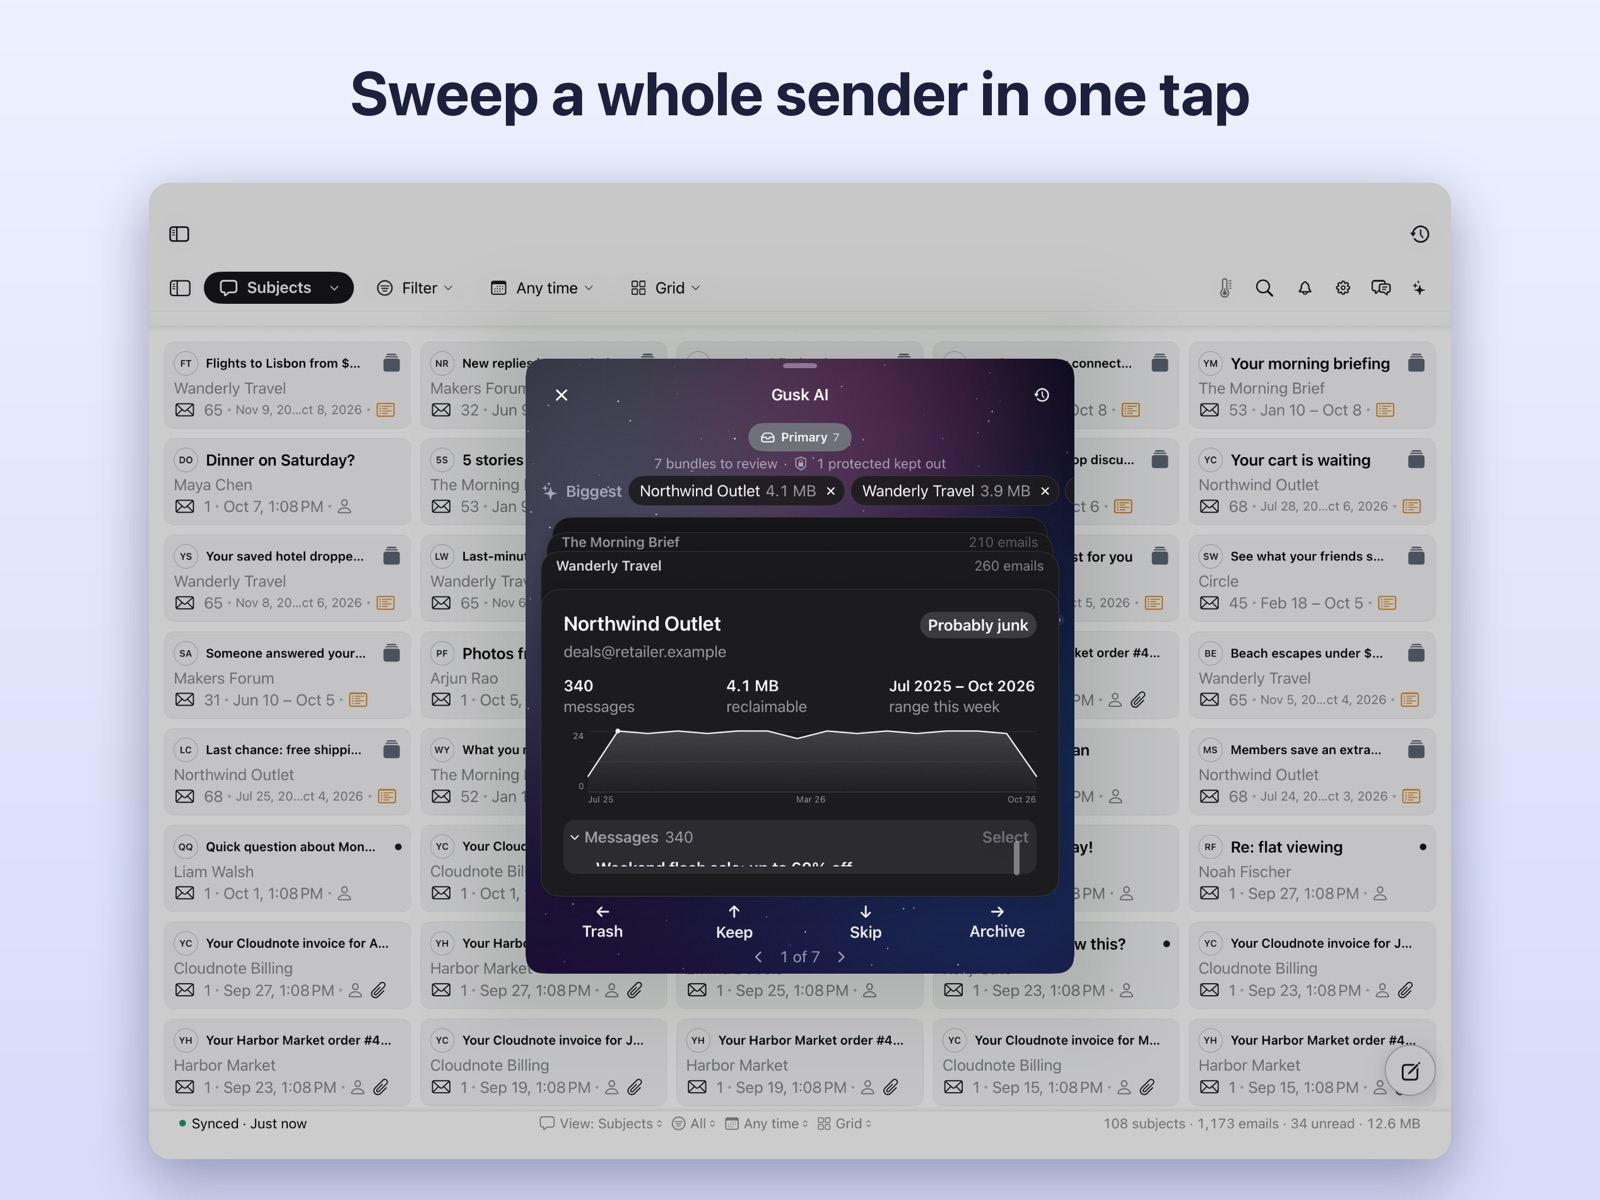
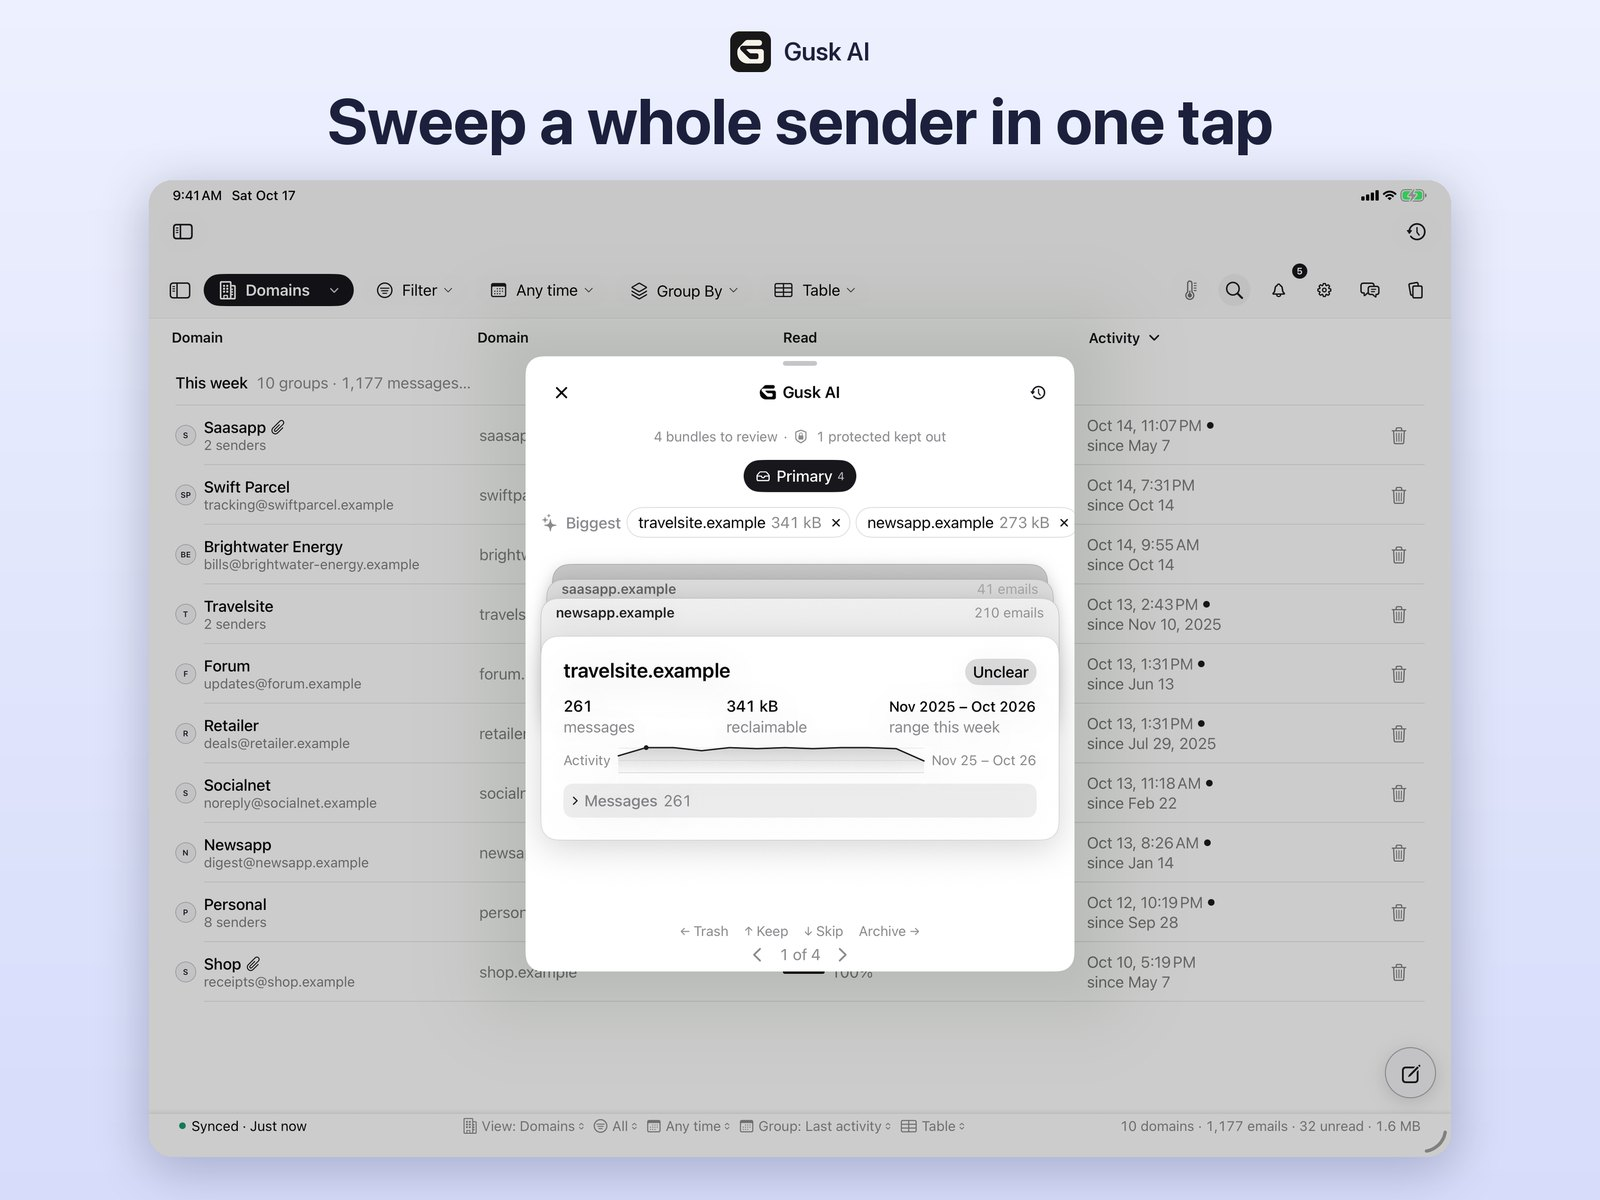
Screenshots from the new App Store sets

diff --git a/index.html b/index.html
@@ -45,7 +45,7 @@
 <p class="section-sub">A full sidebar on Mac and iPad, and the same Sweep in your pocket. Your signatures sync across all three through your own mailbox.</p>
 <figure class="device mac"><div class="shot"><img src="shots/mac.jpg" alt="Gusk AI on Mac: mailboxes, labels and smart views in the sidebar, with senders ranked by volume, size and unread" loading="lazy"></div>
 <figcaption><b>Gusk AI for Mac</b>Mailboxes, labels and smart views in the sidebar, and every sender ranked by volume, size and unread, with keyboard shortcuts throughout.</figcaption></figure>
-<figure class="device ipad"><div class="shot"><img src="shots/ipad.jpg" alt="Gusk AI on iPad: a Sweep card over the subjects grid" loading="lazy"></div>
+<figure class="device ipad"><div class="shot"><img src="shots/ipad.jpg" alt="Gusk AI on iPad: a Sweep card over the domains table" loading="lazy"></div>
 <figcaption><b>Gusk AI for iPad</b>Sweep a whole sender in one tap, right over your inbox.</figcaption></figure>
 </div></section>
 
